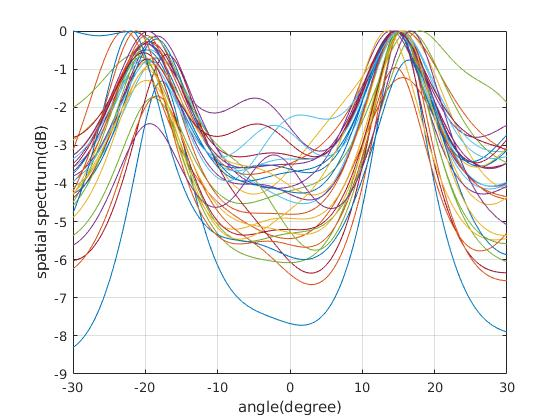
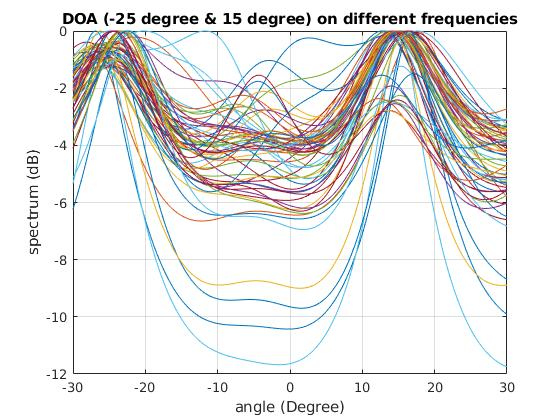
TOPS??

diff --git a/TOPS.m b/TOPS.m
@@ -1,0 +1,76 @@
+function [theta, spectrum] = TOPS()
+    SNR = 15;
+    sensorNum = 8;
+    theta_S = [-20; 13];
+    sourceNum = length(theta_S);
+%----Signal bandwidth: 2MHz, center freq: 11MHz fs: 10e6-----%
+    fs = 10e6;
+    f_begin = 10e6;
+    f_end = 12e6;
+    bandwidth = f_end - f_begin;
+    narrowBandwidth = 1e2;
+    narrowBandNum = bandwidth/narrowBandwidth;
+    
+    freqSnapshots = 100;
+    nFFT = 64;
+    
+    
+    c = 3e8;
+    Ts = 1/fs;
+    snapshots = freqSnapshots*nFFT;
+    Ns = Ts*(0: snapshots - 1);
+    margin = (c/f_end)/2;
+    distance = margin*(0: sensorNum - 1)';
+    
+    receivedData = zeros(sensorNum, snapshots);
+    manifoldMat = zeros(sensorNum, sourceNum);
+    for bandNum = 1: narrowBandNum
+        f = f_begin + (bandNum - 1)*narrowBandwidth;
+        signalMat = [exp(-1j*2*pi*f*Ns); exp(-1j*2*pi*f*Ns)];
+        for col = 1: sourceNum
+            manifoldMat(:, col) = exp(-1j*2*pi*f*((distance*sind(theta_S(col)))/c));
+        end
+        receivedData = receivedData + manifoldMat*signalMat;
+    end
+    receivedData = awgn(receivedData, SNR, 'measured');
+    
+    dataSet = zeros(sensorNum, freqSnapshots, nFFT);
+    for slice = 1: freqSnapshots
+        dataSlice = receivedData(:, (slice - 1)*nFFT + 1: slice*nFFT);
+        for eachSensor = 1: sensorNum
+            dataSet(eachSensor, slice, :) = fft(dataSlice(eachSensor, :), nFFT);
+        end
+    end
+    
+    theta = (-30: 0.1: 30)';
+    spectrum = zeros(size(theta));
+    data = dataSet(:, :, 1);
+    covMat = (data*data')/size(data, 2);
+    [eigenVec, eigenVals] = eig(covMat);   % Eigen factorization
+    eigenVals = diag(eigenVals);
+    [~, index] = sort(eigenVals, 'descend');
+    signalSubspace = eigenVec(:, index(1: sourceNum));
+    for itr = 1: length(theta)        
+        estimator = [];
+        for freqPos = 2: nFFT
+            data = dataSet(:, :, freqPos);
+            covMat = (data*data')/size(data, 2);
+            [eigenVec, eigenVals] = eig(covMat);   % Eigen factorization
+            eigenVals = diag(eigenVals);
+            [~, index] = sort(eigenVals, 'ascend');
+            noiseSubspace = eigenVec(:, index(1: sensorNum - sourceNum));
+            
+            f = (freqPos - 1)*(bandwidth/nFFT) + f_begin;
+            deltaF = f - f_begin;
+            steeringVec = exp(-1j*2*pi*deltaF*(margin*(0: sensorNum - 1)'*sind(theta(itr)))/c);
+            unitaryMat = diag(steeringVec);
+            projectionMat = eye(sensorNum) - pinv(steeringVec'*steeringVec)*(steeringVec*steeringVec');
+            tempMatU = projectionMat*unitaryMat*signalSubspace;
+            estimator = [estimator, tempMatU'*noiseSubspace];
+        end
+        singularVals = svd(estimator);
+        spectrum(itr) = 1/(singularVals(end));
+        
+    end
+    
+end

diff --git a/MUSIC.m b/MUSIC.m
@@ -1,4 +1,4 @@
-function [theta, spectrum] = MUSIC(data, f, sourceNum, sensorNum)
+function [theta, spectrum] = MUSIC(data, f, sourceNum, sensorNum, margin)
 %---@Input: data (x = As + n)------%
 %---@       f: frequency (Hz)---%
 %---@       sourceNum: number of sources---%
@@ -13,9 +13,9 @@ function [theta, spectrum] = MUSIC(data, f, sourceNum, sensorNum)
     theta = (-30: 0.1: 30)';
     spectrum = zeros(length(theta), 1);
     c = 3e8;
-    margin = (c/f)/2;                     % Let distance between 2 adjacent sensors equal to wavelength/2    
+%     margin = (c/f)/2;                     % Let distance between 2 adjacent sensors equal to wavelength/2    
     for itr = 1: length(theta)
-        steeringVct = exp(-1j*2*pi*f*(margin*(0: sensorNum - 1)'*sind(theta(itr)))/c);
-        spectrum(itr) = (steeringVct'*steeringVct)/(steeringVct'*(noiseSubspace*noiseSubspace')*steeringVct);
+        steeringVec = exp(-1j*2*pi*f*(margin*(0: sensorNum - 1)'*sind(theta(itr)))/c);
+        spectrum(itr) = (steeringVec'*steeringVec)/(steeringVec'*(noiseSubspace*noiseSubspace')*steeringVec);
     end
 end

diff --git a/IMUSIC.m b/IMUSIC.m
@@ -1,7 +1,7 @@
 function [theta, spectrum] = IMUSIC()
     SNR = 15;
     sensorNum = 8;
-    theta_S = [-20; 15];
+    theta_S = [-25; 15];
     sourceNum = length(theta_S);
 %----Signal bandwidth: 2MHz, center freq: 11MHz fs: 10e6-----%
     fs = 10e6;
@@ -43,10 +43,10 @@ function [theta, spectrum] = IMUSIC()
     end
     
     theta = (-30: 0.1: 30)';
-    spectrum = zeros(size(theta, 1), nFFT/2);
-    for freqPos = 1: nFFT/2
-        f = (freqPos - 1)*(fs/nFFT) + f_begin;
-        [~, narrowBandSpec] = MUSIC(2*dataSet(:, :, freqPos), f, sourceNum, sensorNum);
+    spectrum = zeros(size(theta, 1), nFFT);
+    for freqPos = 1: nFFT
+        f = (freqPos - 1)*(bandwidth/nFFT) + f_begin;
+        [~, narrowBandSpec] = MUSIC(dataSet(:, :, freqPos), f, sourceNum, sensorNum, margin);
 %         spectrum = spectrum + narrowBandSpec;
         spectrum(:, freqPos) = narrowBandSpec;
     end
